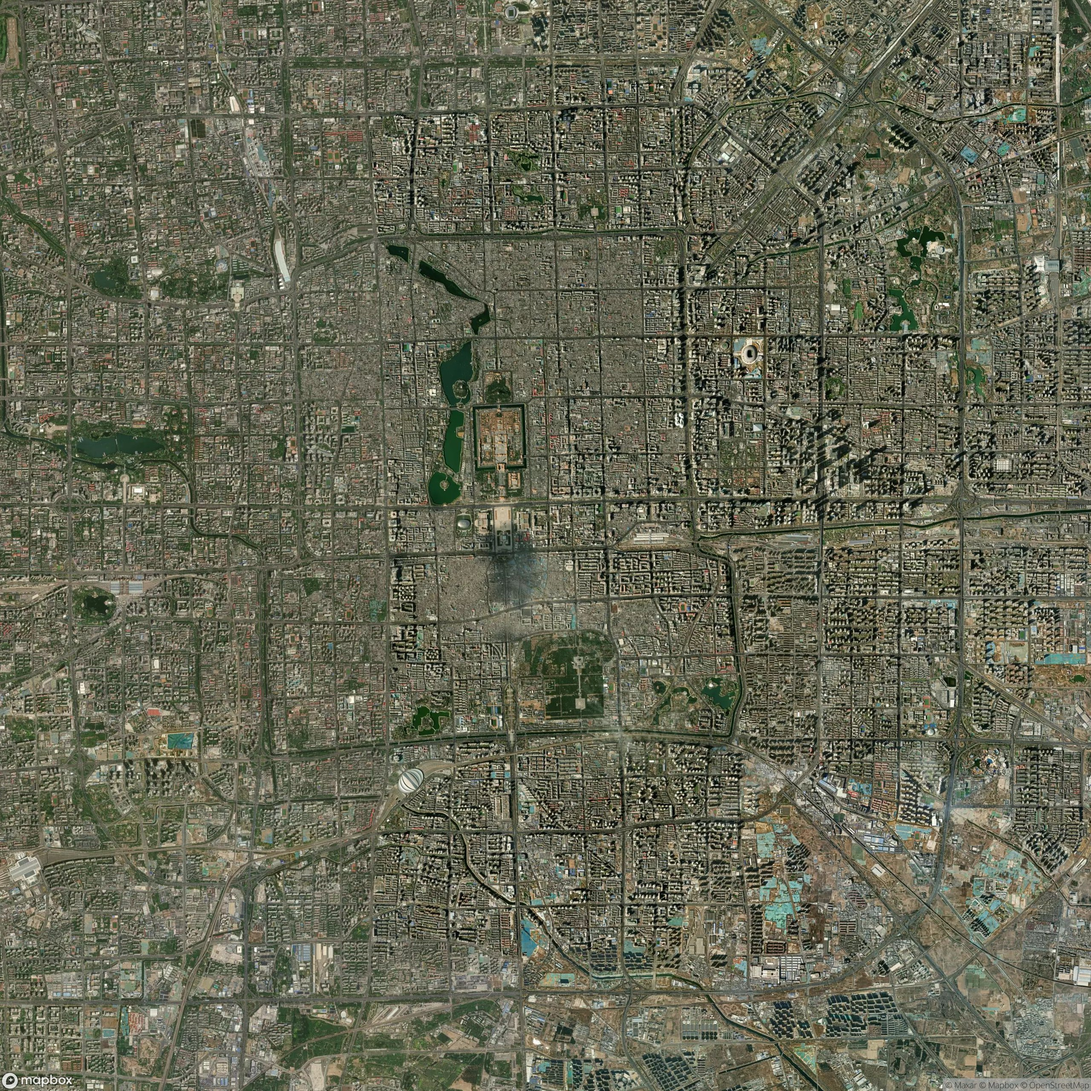
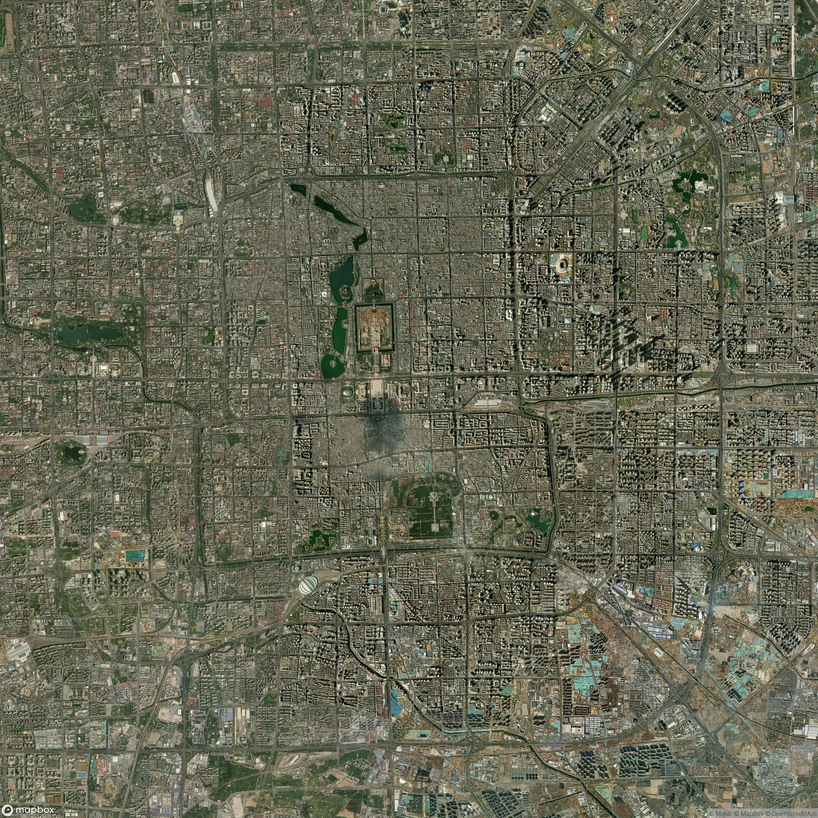
perf: compress satellite images + add lazy loading

diff --git a/index.html b/index.html
@@ -412,12 +412,12 @@
 
     <!-- 卫星图背景 -->
     <div class="satellite-bg">
-        <img src="assets/satellite/china.jpg" class="satellite-img active" data-scene="hero" alt="中国全景">
-        <img src="assets/satellite/tongxiang.jpg" class="satellite-img" data-scene="tongxiang" alt="桐乡">
-        <img src="assets/satellite/chengdu.jpg" class="satellite-img" data-scene="chengdu" alt="成都">
-        <img src="assets/satellite/hefei.jpg" class="satellite-img" data-scene="hefei" alt="合肥">
-        <img src="assets/satellite/hongkong.jpg" class="satellite-img" data-scene="hongkong" alt="香港">
-        <img src="assets/satellite/beijing.jpg" class="satellite-img" data-scene="beijing" alt="北京">
+        <img src="assets/satellite/china.jpg" class="satellite-img active" data-scene="hero" alt="中国全景" fetchpriority="high">
+        <img src="assets/satellite/tongxiang.jpg" class="satellite-img" data-scene="tongxiang" alt="桐乡" loading="lazy">
+        <img src="assets/satellite/chengdu.jpg" class="satellite-img" data-scene="chengdu" alt="成都" loading="lazy">
+        <img src="assets/satellite/hefei.jpg" class="satellite-img" data-scene="hefei" alt="合肥" loading="lazy">
+        <img src="assets/satellite/hongkong.jpg" class="satellite-img" data-scene="hongkong" alt="香港" loading="lazy">
+        <img src="assets/satellite/beijing.jpg" class="satellite-img" data-scene="beijing" alt="北京" loading="lazy">
     </div>
     
     <!-- 胶片颗粒纹理叠加 -->
